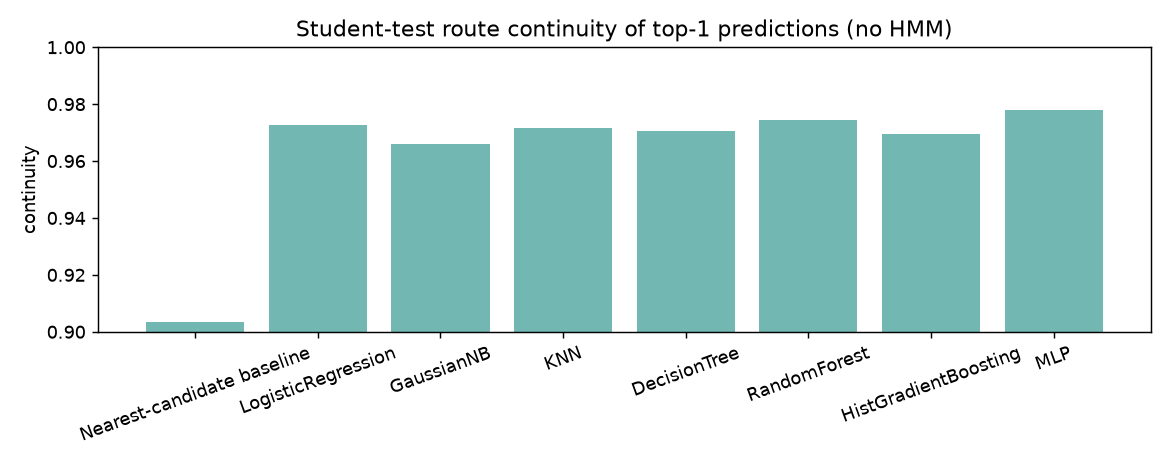
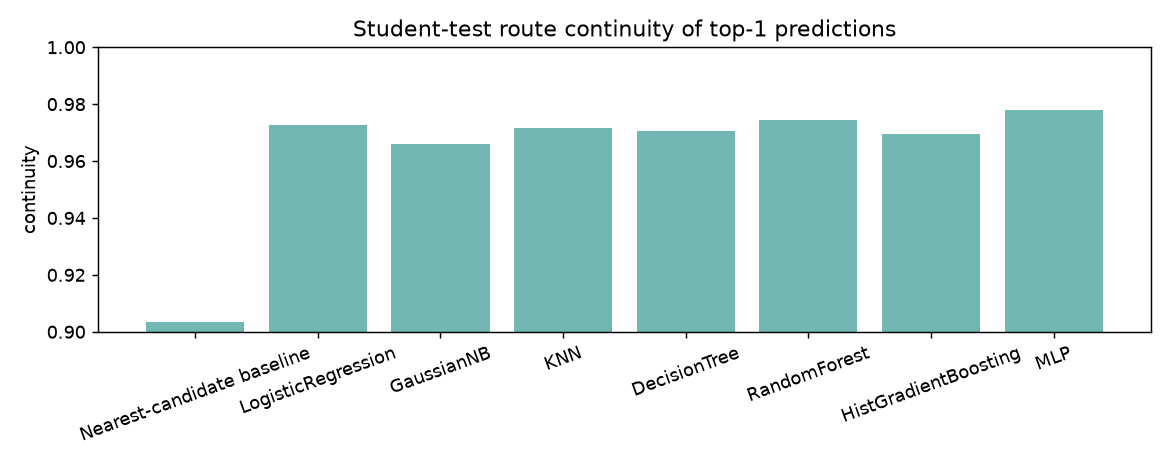
Axis labels on exploration figures

Changed region(s): [[0.2462, 0.0299, 0.8308, 0.0897]]

diff --git a/scripts/01_explore_dataset.py b/scripts/01_explore_dataset.py
@@ -115,8 +115,10 @@ for p, c in [("train", "tab:blue"), ("student_test", "tab:orange")]:
     ax[0, 1].hist(s.track_len_km, bins=20, alpha=.6, label=p, color=c)
     ax[1, 0].hist(np.log10(s.n_arcs), bins=20, alpha=.6, label=p, color=c)
     ax[1, 1].scatter(s.lon_min, s.lat_min, label=p, color=c, s=15)
-ax[0, 0].set_title("GPS observations per trip"); ax[0, 1].set_title("Track length (km, haversine)")
-ax[1, 0].set_title("log10(number of road arcs) per trip"); ax[1, 1].set_title("Trip locations (longitude, latitude)")
+ax[0, 0].set_title("GPS observations per trip"); ax[0, 0].set_xlabel("number of GPS points in the trip"); ax[0, 0].set_ylabel("number of trips")
+ax[0, 1].set_title("Track length per trip"); ax[0, 1].set_xlabel("track length (km, haversine)"); ax[0, 1].set_ylabel("number of trips")
+ax[1, 0].set_title("Road-network size per trip"); ax[1, 0].set_xlabel("log10(number of road arcs)  (3 = 1,000, 4 = 10,000, 5 = 100,000)"); ax[1, 0].set_ylabel("number of trips")
+ax[1, 1].set_title("Trip locations (south-west corner of each track)"); ax[1, 1].set_xlabel("longitude (degrees)"); ax[1, 1].set_ylabel("latitude (degrees)")
 for a in ax.flat:
     a.legend(fontsize=8)
 plt.tight_layout(); plt.savefig(FIG / "eda_distributions.png", dpi=130); plt.close()

diff --git a/scripts/07_plots.py b/scripts/07_plots.py
@@ -58,7 +58,7 @@ plt.tight_layout(); plt.savefig(FIG / "generalisation_and_speed.png", dpi=130); 
 plt.figure(figsize=(9, 3.6))
 plt.bar(np.arange(len(comp)), comp.st_continuity, color="#72b7b2")
 plt.xticks(np.arange(len(comp)), comp.model, rotation=20); plt.ylim(0.9, 1.0); plt.ylabel("continuity")
-plt.title("Student-test route continuity of top-1 predictions (no HMM)"); plt.tight_layout()
+plt.title("Student-test route continuity of top-1 predictions"); plt.tight_layout()
 plt.savefig(FIG / "route_continuity_models.png", dpi=130); plt.close()
 
 # 6. confusion matrices
